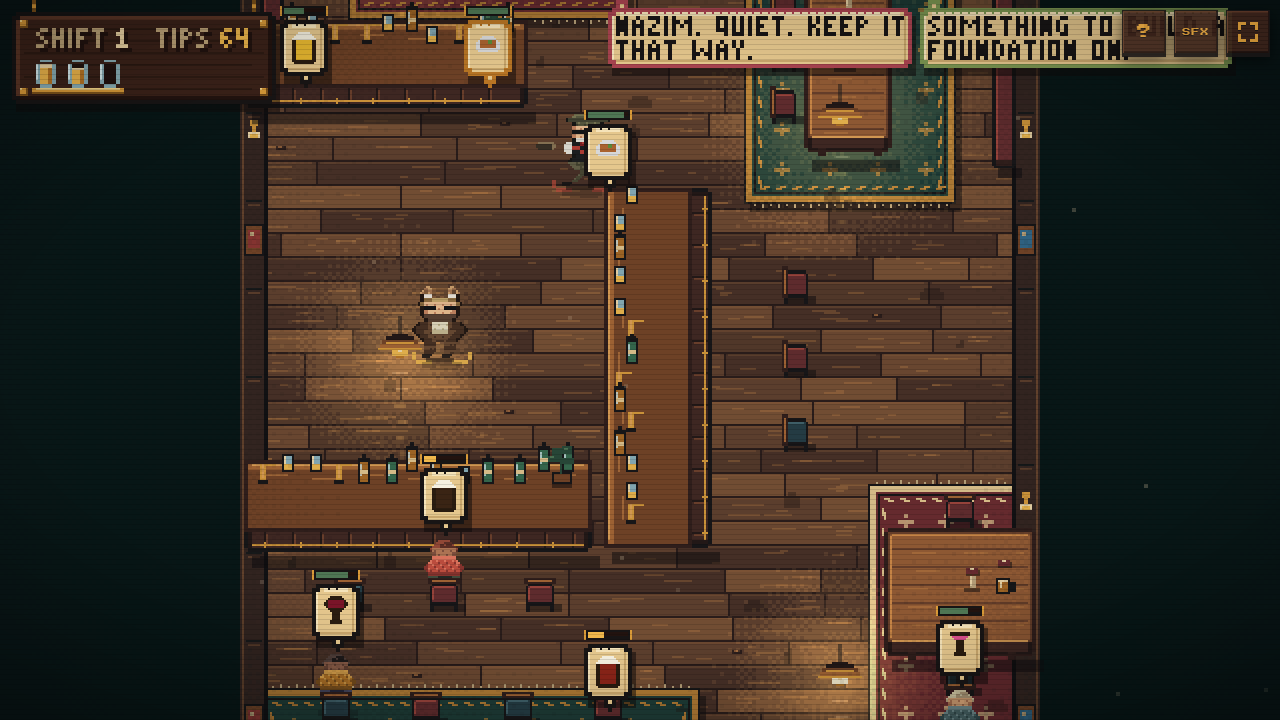
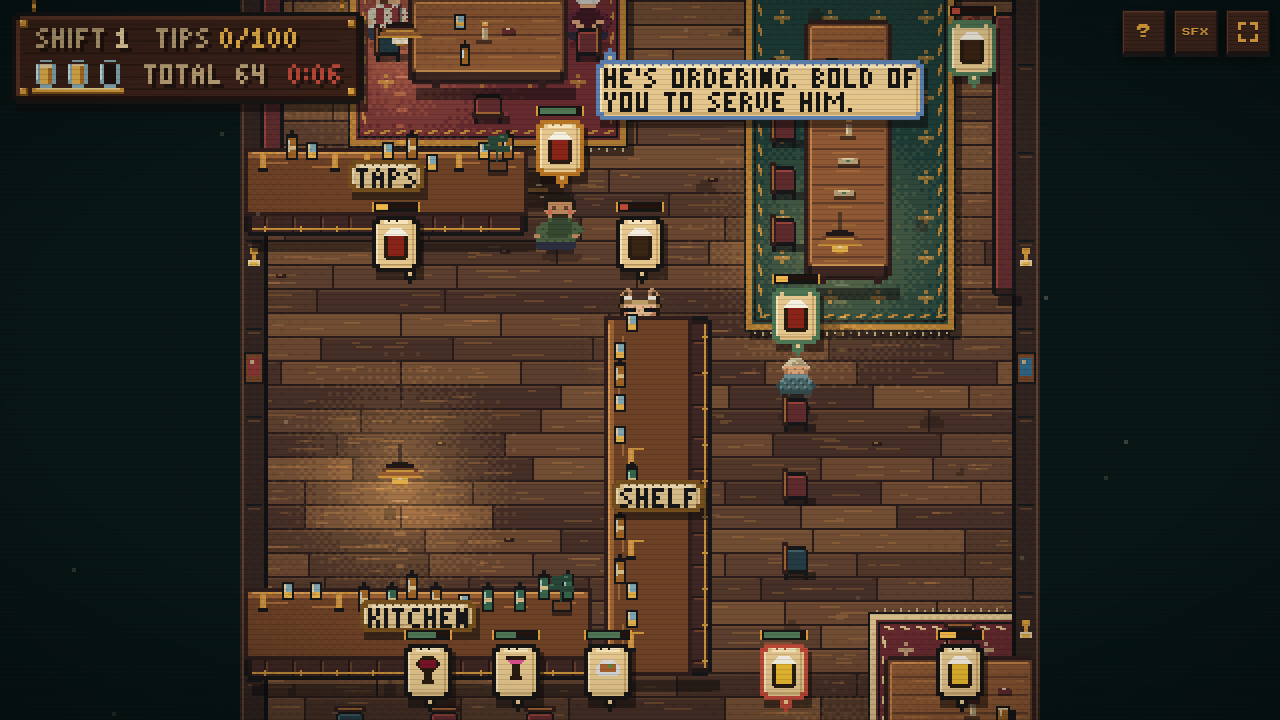
feat: hit-stop, danger edge and footsteps, the ghost spooks the hunter; docs
Juice for the chase: a few frames of hit-stop with the lost pint rocking
on the sign, a red edge pulse and footsteps when the hunter is close and
chasing, and the ghost stopping him dead once per apparition. CLAUDE.md,
README and the start hint describe the new loop.

diff --git a/game.js b/game.js
@@ -710,6 +710,13 @@ function deliveryTip(target) {
 // `caught` still means "game over" — it only flips true once life hits 0.
 let life = 1;
 const LIFE_MAX = 1;
+// A hit lands with a beat: the whole floor holds for a few frames and the
+// pint that just went shakes on the sign.
+const HIT_STOP = 0.08;
+const PINT_KNOCK_TIME = 0.5;
+let hitStopTimer = 0;
+let pintKnockTimer = 0;
+let pintKnockIndex = -1;
 const LIFE_HIT_FRACTION = 1 / 3;
 const LIFE_HIT_INVULN = 1.5;
 const LIFE_REGEN_DELAY = 3;
@@ -991,6 +998,17 @@ function updateGhost(dt) {
     const dir = ghost.targetX > ghost.x ? 1 : -1;
     ghost.x += dir * ghost.speed * dt;
     ghost.flip = dir < 0;
+    // Drifting through the hunter gives him a turn: he stops dead for a
+    // second, which is the one thing the ghost does to the chase. Once per
+    // apparition, so it can't be farmed by standing him in its path.
+    if (!ghost.spooked && (hunterState === 'chase' || hunterState === 'scanning') &&
+      Math.hypot(ghost.x - hunter.x, ghost.y - hunter.y) < 14) {
+      ghost.spooked = true;
+      setHunterState('lost', 1.2);
+      showHunterAlert('?!', 1.2);
+      Sound.play('lost');
+      Dialogue.trigger('hunterSpooked', null);
+    }
     if ((dir > 0 && ghost.x >= ghost.targetX) || (dir < 0 && ghost.x <= ghost.targetX)) ghost = null;
   }
 }
@@ -1762,6 +1780,9 @@ function resetGame() {
   life = LIFE_MAX;
   hitInvulnTimer = 0;
   regenDelayTimer = 0;
+  hitStopTimer = 0;
+  pintKnockTimer = 0;
+  pintKnockIndex = -1;
   shift = 1;
   shiftClock = 0;
   shiftTips = 0;
@@ -2305,6 +2326,7 @@ let hunterFacing = { x: 1, y: 0 };
 let hunterAlert = null;          // { text, timer } placard over his head
 let hunterOrderTimer = 0;        // until his next pint craving
 let hunterScanLookTimer = 0;     // scanning: pause-and-look cadence
+let hunterStepTimer = 0;         // chase: footstep cue cadence
 const HUNTER_ARRIVAL_FIRST = 20; // seconds before he walks in on a first run
 const HUNTER_ARRIVAL_RETRY = 8;  // ...and on a restart
 const HUNTER_LOST_TIME = 3;
@@ -2520,6 +2542,13 @@ function updateHunter(dt) {
         Dialogue.trigger('hunterLost', null);
         return;
       }
+      // Footsteps you can hear when he's close, quicker the closer he is.
+      hunterStepTimer -= dt;
+      const stepDist = Math.hypot(player.x - hunter.x, player.y - hunter.y);
+      if (hunterStepTimer <= 0 && stepDist < DANGER_RANGE * 1.3 && hunter.moving) {
+        Sound.play('step');
+        hunterStepTimer = 0.28 + 0.3 * (stepDist / (DANGER_RANGE * 1.3));
+      }
       hunterRepathTimer -= dt;
       if (hunterRepathTimer <= 0 || !hunterPath) {
         hunterRepathTimer = hunterRepathInterval();
@@ -2615,6 +2644,9 @@ function update(dt) {
 
   // The tally board freezes the floor until the player starts the next shift.
   if (shiftTally) return;
+  // Hit-stop: a few frames of nothing so a hit reads as an impact.
+  if (hitStopTimer > 0) { hitStopTimer -= dt; return; }
+  if (pintKnockTimer > 0) pintKnockTimer -= dt;
 
   // Player movement (slides along furniture/walls via per-axis collision).
   const input = getInputVector();
@@ -2721,6 +2753,9 @@ function update(dt) {
     regenDelayTimer = LIFE_REGEN_DELAY;
     doubleHitFree = false;
     shiftStats.hits++;
+    hitStopTimer = HIT_STOP;
+    pintKnockTimer = PINT_KNOCK_TIME;
+    pintKnockIndex = Math.min(LIFE_SEGMENT_COUNT - 1, Math.floor(life * LIFE_SEGMENT_COUNT + 1e-6));
 
     if (life <= 1e-9) {
       caught = true;
@@ -3770,6 +3805,34 @@ function drawGrade() {
 
   ensureVignette();
   ctx.drawImage(vignetteCanvas, 0, 0);
+  drawDangerEdge();
+}
+
+// A red pulse creeping in from the edge the hunter is on while he's close
+// and chasing — strongest when he's off camera, which is when you need it.
+const DANGER_RANGE = 80;
+function drawDangerEdge() {
+  if (hunterState !== 'chase' || caught) return;
+  const dx = hunter.x - player.x;
+  const dy = hunter.y - player.y;
+  const dist = Math.hypot(dx, dy);
+  if (dist > DANGER_RANGE) return;
+  const cam = getCamera();
+  const onScreen = hunter.x - cam.x > -8 && hunter.x - cam.x < viewW + 8 && hunter.y - cam.y > -8 && hunter.y - cam.y < viewH + 8;
+  const pulse = 0.65 + 0.35 * Math.sin(gameTime * 9);
+  const strength = (1 - dist / DANGER_RANGE) * (onScreen ? 0.22 : 0.42) * pulse;
+  if (strength <= 0.01) return;
+  // Three stepped bands rather than a gradient, weighted toward his side.
+  const wx = Math.abs(dx) > Math.abs(dy) ? Math.sign(dx) : 0;
+  const wy = wx === 0 ? Math.sign(dy) : 0;
+  for (let band = 0; band < 3; band++) {
+    ctx.fillStyle = 'rgba(189,73,56,' + (strength * (1 - band * 0.3)).toFixed(3) + ')';
+    const t = 2 + band * 2;
+    if (wx <= 0) ctx.fillRect(0, 0, t, viewH);                 // left
+    if (wx >= 0) ctx.fillRect(viewW - t, 0, t, viewH);         // right
+    if (wy <= 0) ctx.fillRect(0, 0, viewW, t);                 // top
+    if (wy >= 0) ctx.fillRect(0, viewH - t, viewW, t);         // bottom
+  }
 }
 
 // ---- Y-sorted pass ----------------------------------------------------------
@@ -4369,7 +4432,15 @@ function drawHud() {
 
   const pintY = textY + FONT_H + 3;
   for (let i = 0; i < LIFE_SEGMENT_COUNT; i++) {
-    const x = hud.x + HUD_PAD_X + i * (PINT_W + PINT_GAP);
+    let x = hud.x + HUD_PAD_X + i * (PINT_W + PINT_GAP);
+    // The pint that just went rocks on the rail and throws a splash.
+    const knocked = pintKnockTimer > 0 && i === pintKnockIndex;
+    if (knocked) {
+      x += Math.round(Math.sin(pintKnockTimer * 40)) ;
+      ctx.fillStyle = PUB.amber;
+      ctx.fillRect(x + PINT_W + 1, pintY + PINT_H - 2 - Math.round(pintKnockTimer * 6), 1, 1);
+      ctx.fillRect(x - 2, pintY + PINT_H - 1 - Math.round(pintKnockTimer * 4), 1, 1);
+    }
     drawPint(x, pintY, clamp(life * LIFE_SEGMENT_COUNT - i, 0, 1));
   }
   // Brass coaster rail under the pints so they sit on something.

diff --git a/tests/smoke.js b/tests/smoke.js
@@ -384,6 +384,17 @@ function run() {
   if (debug.getScore() - beforeRound < 25 + 30) throw new Error('Round should pay the three tips plus the bonus.');
   debug.resetGame();
 
+  // The ghost drifting through the hunter stops him for a moment, once.
+  debug.resetGame();
+  debug.setHunterState('chase');
+  debug.hunter.x = 100; debug.hunter.y = 150; debug.player.x = 100; debug.player.y = 300;
+  debug.spawnGhost();
+  const apparition = debug.getGhost();
+  apparition.x = debug.hunter.x - 2; apparition.y = debug.hunter.y; apparition.targetX = debug.hunter.x + 40;
+  debug.update(0.05);
+  if (debug.getHunterState().state !== 'lost') throw new Error('The ghost passing through the hunter should spook him.');
+  debug.resetGame();
+
   // Shifts: the clock runs, last call arms in the final seconds and stops
   // new walk-ins, the tally board freezes the floor until a press, and the
   // next shift starts from zero with the target raised.
@@ -434,7 +445,7 @@ function run() {
   debug.render();
 
   console.log(`Smoke test passed: ${SCRIPT_FILES.length} scripts, ${freeSeats} customer routes, ` +
-    `${debug.regularState().length} regulars, waiter visit, and serving loop, hunter states, Nazim's night, the round, shifts, and render pass with HUD, tally and caught boards.`);
+    `${debug.regularState().length} regulars, waiter visit, and serving loop, hunter states, Nazim's night, the round, the ghost's spook, shifts, and render pass with HUD, tally and caught boards.`);
 }
 
 run();

diff --git a/src/dialogue-content.js b/src/dialogue-content.js
@@ -187,6 +187,9 @@ const DIALOGUE_LINES = [
   { who: 'sam', category: 'lastCall', text: "Bell's gone. Everybody wants everything now." },
   { who: 'nazim', category: 'lastCall', stage: ['sober', 'warm', 'buzzed'], text: "Already? The night was just getting good." },
   { who: 'nazim', category: 'lastCall', stage: ['drunk', 'gone'], text: "Last call is a state of mind." },
+  { who: 'sam', category: 'hunterSpooked', text: "Did he just flinch at nothing?" },
+  { who: 'gerald', category: 'hunterSpooked', text: "Big man. Scared of a draught." },
+  { who: 'nazim', category: 'hunterSpooked', stage: ['drunk', 'gone'], text: "I saw it too. The see-through fella." },
 ];
 
 // ---- Multi-character exchanges ---------------------------------------------

diff --git a/index.html b/index.html
@@ -38,7 +38,7 @@
           <li><span>Restart</span><kbd>Space</kbd><em class="touch-only">on-screen button</em></li>
         </ul>
         <button id="btn-start" type="button" class="primary">START SHIFT</button>
-        <p class="hint">Nazim, Sam and Gerald are always at the corner table.</p>
+        <p class="hint">Beers at the TAPS, wine at the SHELF, food from the KITCHEN. The tray holds two.<br>Nazim, Sam and Gerald are always at the corner table.</p>
         </div>
       </div>
     </div>

diff --git a/src/sound.js b/src/sound.js
@@ -108,6 +108,11 @@ const Sound = (function () {
         if (!allow(name, 0.12)) return;
         tone(115, 0.045, { type: 'square', volume: 0.035 });
         break;
+      case 'step':
+        // A boot on the boards, felt more than heard.
+        if (!allow(name, 0.2)) return;
+        tone(95, 0.06, { to: 60, type: 'triangle', volume: 0.07 });
+        break;
       case 'bell':
         // Last call: the bar bell, twice.
         tone(1760, 0.18, { type: 'triangle', volume: 0.09 });

diff --git a/src/dialogue.js b/src/dialogue.js
@@ -23,6 +23,7 @@ const Dialogue = (function () {
     restart: 3,
     hunterNear: 2,
     lastCall: 3,
+    hunterSpooked: 2,
     waterOrdered: 3,
     sobered: 3,
     roundCalled: 3,

diff --git a/CLAUDE.md b/CLAUDE.md
@@ -150,13 +150,21 @@ Their orders are framed in amber (`BUBBLE_FRAME_REGULAR`) so they read apart fro
 
 Gerald's escalation is content-side: his lines about Nazim declare a `nazim: [...]` stage gate, so he can't use drunk material on a sober man.
 
-### 7. Carrying and delivery
+**His night costs and pays.** Drunk or gone (`nazimIsFarGone`): order cooldown ×`NAZIM_FAST_ORDER` 0.6 and alcohol tips ×`NAZIM_TIP_MULT` 2. Gone: each delivery has a `NAZIM_SPILL_CHANCE` of knocking the pint (`addSpill` — `spills` slow player and hunter to `SPILL_SLOW` 60% within 9px for 25 s, drawn by `drawSpills` under the y-sorted pass), and every 12–20 s he gets up (`startNazimWander`/`updateNazimWander`: lean pose plus his sway, 14 px/s to a spot near the booth, a pause, then home). While up he is in `dynamicBlockers`, which `collidesAt` checks after `FURNITURE` so everyone slides round him; routes ignore him. Entering gone sets `waterOwed`, so his next order is `'water'` (an `ORDER_ICONS` entry made at the taps and excluded from walk-in `ORDER_TYPES`); delivering it takes `NAZIM_WATER_SOBERS` 2 drinks off with the `sobered` exchange instead of a thank-you. Keep pouring for double tips, or cut him off — that's the choice.
 
-`player.carrying` holds `{ type, customer }` referencing a *specific* person — walk-in or regular — flagged `beingCarried` so two orders are never picked up for one person. `handleInteract()` (bound to `E`, `Space`, and the touch action button) either grabs an order at the bar or delivers the carried one.
+**The round.** Every `ROUND_INTERVAL` 90–150 s, when none of the three is mid-order, `tryCallRound()` gives all three an order with `ROUND_PATIENCE` 32 s; all three served inside `ROUND_WINDOW` 20 s pays `ROUND_BONUS` 25 (`noteRoundDelivery`), otherwise `roundMissed`.
 
-`findOldestPendingOrder()` picks by `orderPlacedAt` across **both** populations, so the queue stays fair now that two feed it.
+### 7. Stations, the tray, tips and delivery
 
-Delivery works next to the customer *or* anywhere near their table's collider (`nearRect`). If the target stops wanting the order, `update()` retargets it — **but only among walk-ins**. Silently re-pointing a drink at a different named regular would make ownership ambiguous, so a regular's order always has to be picked up for them on purpose. If no walk-in wants the stranded item, it is dropped so the player cannot get stuck carrying an undeliverable order. The validity check includes `orderType`, because a regular's order can lapse while they stay in their seat, whereas for a walk-in leaving is the only way out.
+**Orders are picked up at the station that makes them.** `BAR_STATIONS` maps each `BAR_SEGMENTS` entry's `station` (`taps` → beers and water, `shelf` → wine/cocktail, `hatch` → food) to its order types, and `findOldestPendingOrder(types)` filters the queue by them. `nearestBarSegment()` resolves the L's corner by distance, not array order. A press at the wrong counter floats the right station's label (`SHELF >`) instead of just buzzing. `drawStationTag` paints a parchment label on each counter. Remapping a station is a one-word edit.
+
+**The tray.** `player.tray` holds up to `TRAY_MAX` (2) `{ type, customer }` items, each referencing a *specific* person — walk-in, regular or the hunter — flagged `beingCarried` so two orders are never picked up for one person. A full tray drops speed to `TRAY_SPEED` (54, under the hunter's late-game 60); landing both without a hit pays `DOUBLE_BONUS` (`doubleArmed`/`doubleHitFree`, cancelled by a hit or a dropped order). `handleInteract()` (`E`, `Space`, the touch action) tries a delivery first — whichever tray item's customer is in reach (`canDeliverTo`) — then a pickup.
+
+**Tips** (`deliveryTip`): `POINTS_PER_DELIVERY` 10 plus another 10 scaled by remaining patience, plus `CLUTCH_BONUS` 5 under `CLUTCH_FRACTION` 20%. The patience bar is a score meter, not just a fail timer. Every tip earned or lost goes through `earnTips`/`loseTips` so the shift ledger (`shiftStats`) stays exact.
+
+`findOldestPendingOrder()` picks by `orderPlacedAt` across walk-ins, regulars **and the hunter**, so the queue stays fair.
+
+Delivery works next to the customer *or* anywhere near their table's collider (`nearRect`); the hunter is served at arm's length (`HUNTER_SERVE_RANGE` 26, wider than the ~15px catch radius). If a target stops wanting its order (`stillWantsOrder`), `update()` retargets it — **but only among walk-ins**. Silently re-pointing a drink at a different named regular would make ownership ambiguous, so a regular's order always has to be picked up for them on purpose. If no walk-in wants the stranded item, it is dropped from the tray so the player cannot get stuck carrying an undeliverable order. The validity check includes `orderType`, because a regular's order can lapse while they stay in their seat, whereas for a walk-in leaving is the only way out.
 
 ### 8. Dialogue
 
@@ -168,23 +176,31 @@ A reactive layer on top of gameplay. It never pauses the chase, blocks input, or
 - **`Dialogue.reset()` is called from `resetGame()`**, so a restart cancels everything queued or on screen; `resetDialogueTriggers()` clears the edge-detection state alongside it.
 - **Rendering** is `drawDialogueBubbles()`. Placement tries, in order: clear above the speaker's order bubble; straight above their head; pinned to the top of the camera; and only then hanging off the shoulder facing away from the booth. Bubbles are nudged sideways before vertically when two are on screen, and the HUD's footprint is fed in as an obstacle so a line can never sit on the score.
 
-### 9. Hunter AI: pursuit, not wandering
+### 9. Hunter AI: a rhythm, then pursuit
 
-`pickNewHunterDirection()` re-aims at the player's *current* position on a short timer with random angle jitter and a small chance to pause. Level tightens all three: jitter 60°→15°, shorter re-aim timer, smaller pause chance. If `tryMove` reports **both** axes blocked the hunter is wedged in a corner and `pickEscapeDirection()` fires a fully random burst.
+`updateHunter()` is a state machine (`hunterState`): **arriving** (hidden at `DOOR` for `HUNTER_ARRIVAL_FIRST` 20 s on a first run, `HUNTER_ARRIVAL_RETRY` 8 s on a restart, so a new player learns the bar before the chase; not drawn, can't catch) → **scanning** (half-speed prowl between random clear spots with a pause-and-look; he notices the Doe only inside a ±60° cone in front of him with a clear line through the furniture, within `hunterSightRange()` 70 + 4/level px — or within `HUNTER_HEAR_RANGE` 24 regardless; walking into him counts) → **chase** ("!" placard via `showHunterAlert`, `whistle` cue) → **lost** ("?" for `HUNTER_LOST_TIME` 3 s after `hunterLoseTime()` 4 + 0.5/level s out of sight) → scanning. **drinking** is 8 s sat out after being bought a pint. The ghost drifting through him forces a 1.2 s `lost` once per apparition. `setHunterState()` clears the route and slide state.
+
+**He is a patron too.** `hunter.isHunter` and the shared order fields; `hunterWantsPint()` every `HUNTER_ORDER_INTERVAL` 45–75 s with 25 s patience and no penalty; his ticket is framed `BUBBLE_FRAME_HUNTER` (tomato); `hunterServed()` pays the tip plus `HUNTER_SERVE_BONUS` 20 and seats him. Buying the man who's hunting you a pint is the joke the premise was begging for.
+
+**In chase he is a pathfinder.** `hunterRouteTo()` runs the same A* as customers with `HUNTER_FOOTPRINT` — the search is body-size aware (`footprintFor(kind, cell)`; `findBlockingObstacle`/`pointBlocked`/`cellCenter`/`computeCustomerPath` take an optional `fp`) and the hunter uses a **4px grid**, because on the 8px one his 11.6px foot box finds no clear centre in the 15px lane beside the bar stem though he physically fits. The route is recomputed every `hunterRepathInterval()` 1.5 → 0.8 s. `pickNewHunterDirection()` then aims at the next waypoint with half the old angle jitter and a small chance to pause, so he still reads as a man running rather than a homing missile. Level tightens all three: jitter 60°→15°, shorter re-aim timer, smaller pause chance. If `tryMove` reports **both** axes blocked the hunter is wedged in a corner and `pickEscapeDirection()` fires a fully random burst.
 
 Only one axis blocked means it is scraping along something. Re-aiming sooner is the first response, but pursuit alone cannot get round a *long* obstacle: every re-aim re-rolls the sideways component, so the hunter random-walks up and down the same wall forever and the player is safe just by standing on the other side of the bar. So after `HUNTER_RUB_TIME` of getting nowhere it commits to one direction along the open axis (`hunterSlide`) and holds it for `HUNTER_SLIDE_TIME` before trying the other way — plain wall following. The slide vector still leans into the wall, so the frame the obstacle runs out nothing is blocked, the slide clears itself, and pursuit resumes. `hunterRubTimer` and `hunterSlide` both reset in `resetGame()`.
 
-The hunter is still not a pathfinder, and the floor plan's bar leaves a couple of long detours it can only find by luck. A player who stands perfectly still behind the bar can outlast it.
+The rub/slide layer stays as the safety net for the cases the grid can't express; a route that fails outright falls back to a straight line and lets the slide sort it out. A red edge pulse (`drawDangerEdge`) and footstep cues (`step`) mark him within `DANGER_RANGE` 80 while chasing, strongest when he's off camera.
 
 ### 10. Life and capture
 
-Contact with the hunter removes one of three life segments instead of ending the run immediately. A 1.5-second invulnerability window and a collision-aware shove give the player room to escape; the sprite flickers while protected. Regeneration begins after three hit-free seconds and takes 20 seconds to refill an empty bar. Only the final hit sets `caught`, plays the caught cue and triggers the room's caught dialogue.
+Contact with the hunter removes one of three life segments instead of ending the run immediately. A 1.5-second invulnerability window and a collision-aware shove give the player room to escape; the sprite flickers while protected. Regeneration begins after three hit-free seconds and takes 20 seconds to refill an empty bar. A hit also holds the floor for `HIT_STOP` 0.08 s and rocks the emptied pint on the HUD sign (`pintKnockTimer`/`pintKnockIndex`). Only the final hit sets `caught`, plays the caught cue and triggers the room's caught dialogue.
 
 **High scores** live in `localStorage` under `lepub_highscores` (top 5, `{name, score}`; plain numbers from older saves are normalized on read, and every access is wrapped because storage can throw outright). Being caught with a score calls `beginNameEntry()`: while `enteringName` is true the caught screen shows a name field instead of the restart prompt, and the keydown handler takes the keyboard outright so no other shortcut can eat a letter or drop the score. The DOM restart button is hidden for the same reason (`syncCaughtDom`). Typing a name needs a keyboard, so on a touch device (`canTypeName()`) the score is filed unnamed rather than showing a field nobody can fill.
 
-### 11. Levels and difficulty
+### 11. Shifts and difficulty
 
-Level is *derived* from score (`getLevel() = floor(score / LEVEL_UP_SCORE) + 1`, `LEVEL_UP_SCORE` 100). Scaling clamps at `EFFECTIVE_LEVEL_CAP` (10) so the game plateaus, while the displayed level keeps climbing. Per level: hunter speed `min(60, 40 + lvl * 2.5)` — capped just under the player's 62 so a straight-line escape always exists — sharper aim, a higher customer cap (`BASE_MAX_CUSTOMERS` 6 rising to 14), faster spawns, and a heavier night tint. Crossing a new high-water level freezes the simulation for a 2.5-second `LevelDone.png` splash; losing points and re-crossing the same threshold does not replay it.
+The run is a sequence of **shifts**, and `getLevel()` returns the shift number — difficulty follows the shift, not the score, so losing tips never makes the room easier. A shift ends when `shiftTips` reaches `shiftTarget(n)` = 100 + 40(n−1), or, for the first `SHIFT_TIMED_COUNT` (5) shifts, when its `SHIFT_LENGTH` 180 s clock runs out. The final `LAST_CALL_TIME` 15 s are **last call**: bar bell, `lastCall` lines, no new walk-ins, patience drains ×`LAST_CALL_PATIENCE` (1.5), the HUD clock turns red and blinks under 5 s. Shifts ≥ 6 are untimed.
+
+`endShift()` snapshots `shiftTally` and freezes the floor; `drawShiftTallyOverlay` shows it on a walnut board over `LevelDone.png` (DONE in cream if the target was met, OVER in red if the clock beat you; served / forgotten / clutch / doubles / rounds / hits / best shift) and waits for Space, `E` or the touch action (`startNextShift()`). That press is the run's natural stopping point. The HUD sign reads `TIPS shift/target` on its top line and `TOTAL n  m:ss` beside the pints.
+
+Scaling clamps at `EFFECTIVE_LEVEL_CAP` (10) so the game plateaus, while the shift number keeps climbing. Per shift: hunter speed `min(60, 40 + lvl * 2.5)` — capped just under the player's 62 so a straight-line escape always exists — wider sight, faster repath, longer memory, a higher customer cap (`BASE_MAX_CUSTOMERS` 6 rising to 14), faster spawns, and a heavier night tint.
 
 ### 12. Render passes
 
@@ -225,7 +241,7 @@ The shell uses the same materials as the canvas UI: `.board` is a walnut plank (
 
 Still the single source of truth for "new game" state. It resets `gameTime`, the player position, a collision-free hunter spawn, `caught`, life/invulnerability/regeneration, score/level-splash state, `customers`, `floatingTexts`, `player.carrying`, every seat's `occupied` flag and the spawn timer — and also builds or resets the regulars, calls `Dialogue.reset()`, calls `resetDialogueTriggers()`, fires the `restart` dialogue category (only if a run has already ended), clears held inputs, and syncs the caught-screen DOM.
 
-It also clears `enteringName`/`nameInput`, the ghost and the waiter. **Any new piece of mutable global run state needs to be reset here too**, or it will leak across a restart. Reserved seats are the deliberate exception: `reserved`/`regularId` are set once at load and never cleared.
+It also clears `enteringName`/`nameInput`, the ghost, the waiter, the tray and double state, the hunter's state machine and order (he restarts `arriving` at the door), spills, dynamic blockers, the round, the shift (number, clock, tips, tally, stats) and the hit-stop/pint-knock timers. **Any new piece of mutable global run state needs to be reset here too**, or it will leak across a restart. Reserved seats are the deliberate exception: `reserved`/`regularId` are set once at load and never cleared.
 
 ## Development scaffolding
 
@@ -233,8 +249,8 @@ It also clears `enteringName`/`nameInput`, the ghost and the waiter. **Any new p
 
 | Helper | Use |
 | --- | --- |
-| `setScore(n)` / `getScore()` / `getLevel()` | Level is derived from score, so `setScore` is how you reach a level. |
-| `setLife(n)` / `getLife()` / `getLevelSplash()` | Inspect the damage/regen bar and current completed-level transition. |
+| `setScore(n)` / `getScore()` / `getLevel()` | Total tips; `getLevel()` is the shift number (use `setShift` to change it). |
+| `setLife(n)` / `getLife()` | Inspect the damage/regen bar. |
 | `getViewport()` / `getCamera()` | Current internal resolution, integer scale, orientation, camera origin. |
 | `reservedSeats()` / `freeGenericSeats()` | Inspect seat reservation. |
 | `forceRegularOrder(id, type?)` | Make a regular order now, optionally of a given type. |
@@ -242,6 +258,9 @@ It also clears `enteringName`/`nameInput`, the ghost and the waiter. **Any new p
 | `computeCustomerPath` / `findBlockingObstacle` / `pointBlocked` | Check a layout edit hasn't sealed a seat off. |
 | `FURNITURE` / `BENCHES` | Every collider in one array — what a flood-fill reachability check runs over. |
 | `getGhost()` / `spawnGhost()` | Summon the apparition instead of waiting 35–80s for it. |
+| `getHunterState()` / `setHunterState(s, t?)` / `hunterCanSeePlayer()` / `hunterWantsPint()` | Drive the hunter's state machine, test his sight, make him order. |
+| `getShift()` / `setShift(n)` / `setShiftClock(t)` / `endShift()` / `startNextShift()` | Jump shifts, force last call, open and close the tally board. |
+| `getSpills()` / `getRound()` / `callRound()` / `startNazimWander()` | Nazim's consequences and the round, on demand. |
 | `getWaiter()` / `spawnWaiter()` | Send the waiter in now; the returned entity's `state`/`pose`/`mist` can be driven by hand. |
 | `loadHighScores()` / `saveHighScore()` / `clearHighScores()` / `getNameEntry()` | Inspect and wipe the stored table, and see the live name field. |
 | `regularState()` | Order, patience, mood, drinks, stage and pose for all three. |

diff --git a/README.md b/README.md
@@ -1,6 +1,6 @@
 # Le Pub: The Chase
 
-A compact pixel-art serving game where a waiter in a deer onesie works a crowded pub while a hunter stalks the room. Pick up the oldest waiting order at the bar, deliver it before the customer loses patience, and keep moving long enough to finish the next level.
+A compact pixel-art serving game where a waiter in a deer onesie works a crowded pub while a hunter stalks the room. Pick orders up at the right station, deliver them before the customer loses patience, and keep moving long enough to close the shift.
 
 **Live demo:** [lepub.vercel.app](https://lepub.vercel.app)
 
@@ -44,12 +44,12 @@ Opening `index.html` directly also works in modern browsers, although serving th
 
 ## How to play
 
-1. Watch for order bubbles above seated customers and the three corner-table regulars.
-2. Move beside any section of the L-shaped bar and grab the oldest waiting order.
-3. Carry it to the highlighted customer. You can deliver beside the customer or anywhere close to their table.
-4. Deliver quickly for 10 points. Letting an order expire costs 15 points.
-5. Avoid the hunter. Contact removes one of three life segments and briefly shoves you to safety.
-6. Survive and keep serving. Every 100 points completes a level and makes the pub busier and the hunter more accurate.
+1. Watch for order tickets above seated customers, the three corner-table regulars — and, now and then, the hunter.
+2. Pick orders up at the station that makes them: beers and water at the **TAPS**, wine and cocktails at the **SHELF**, food from the **KITCHEN**. The tray holds two, but a full tray slows you down; land both without a hit for a double.
+3. Carry them to their customers. You can deliver beside the customer or anywhere close to their table.
+4. Tips scale with how fresh the order still is: 10 to 20, plus a clutch bonus for a last-second save. Letting an order expire costs 15.
+5. Avoid the hunter. He walks in a little after you start, prowls, and only chases once he's actually seen you. Contact removes one of three pints and briefly shoves you to safety. Buy him a pint and he sits it out for a while.
+6. Work the shift. The first five run three minutes with a last-call rush; every shift closes on a tally board, and each one makes the pub busier and the hunter sharper. Keep Nazim drinking for double tips — or let Gerald order him a water.
 
 Life begins regenerating after three hit-free seconds. A fully empty bar takes 20 seconds to refill, and the third hit before recovery ends the shift.
 
@@ -84,7 +84,7 @@ Their dialogue reacts to successful and missed deliveries, near misses, the hunt
 - **Patience:** each order bubble includes a green, amber, or red countdown bar.
 - **Delivery feedback:** score changes float above the affected customer, while order bubbles pop in and shrink away on a whole-pixel animation.
 - **Life and recovery:** three partially refillable segments, a short post-hit invulnerability window, collision-aware knockback, and visible player flicker.
-- **Difficulty:** higher levels add customers, speed up arrivals, improve the hunter's tracking, and deepen the night tint.
+- **Difficulty:** each shift adds customers, speeds up arrivals, widens the hunter's sight and sharpens his tracking, and deepens the night tint.
 - **Responsive presentation:** separate portrait and landscape viewports, camera clamping, safe-area-aware controls, and optional fullscreen.
 - **Sound:** lightweight synthesized Web Audio cues with no audio downloads; the mute preference is stored locally when browser storage is available.
 - **Reduced motion:** ambient dust, lamp flicker, and seated sway are disabled when the operating system requests reduced motion.
@@ -133,7 +133,7 @@ The dependency-free smoke test loads the production scripts in their real
 order, runs every customer seat route in and out, completes a waiter visit,
 and exercises the render pass against a lightweight canvas/DOM stand-in.
 
-For browser testing, exercise both a wide desktop viewport and a portrait mobile viewport. Useful checks include resizing during a run, simultaneous movement and touch interaction, restarting after a catch, muting before and after the first sound, and crossing a 100-point level boundary.
+For browser testing, exercise both a wide desktop viewport and a portrait mobile viewport. Useful checks include resizing during a run, simultaneous movement and touch interaction, restarting after a catch, muting before and after the first sound, and closing a shift on both the clock and the tips target.
 
 ### Debug console
 

diff --git a/HANDOFF.md b/HANDOFF.md
@@ -30,6 +30,26 @@ contents here.
 - Python is not on this machine's PATH; use `node` for scripts and
   `npx serve`/Edge for browser checks.
 
+### 19:35 — batch E (juice) done; docs updated; all ten recommendations in
+
+- Hit-stop (`HIT_STOP` 0.08 s freeze) and the emptied HUD pint rocking with
+  a splash (`pintKnockTimer`/`pintKnockIndex`).
+- `drawDangerEdge()`: stepped red bands on the hunter's side while he
+  chases within `DANGER_RANGE` 80, pulsing, stronger off camera; `step`
+  footstep cue paced by distance (`hunterStepTimer`).
+- The ghost passing within 14 px of a scanning/chasing hunter forces a 1.2 s
+  `lost` with a "?!" placard, once per apparition (`ghost.spooked`);
+  `hunterSpooked` lines.
+- `CLAUDE.md` sections 6/7/9/10/11/15 and the debug table rewritten for
+  stations, tray, tips, hunter states, footprint-aware A*, Nazim's
+  consequences, the round, shifts. `README.md` how-to-play updated. Start
+  overlay hint names the stations and the tray.
+- Smoke: 8 scripts, loop, hunter, Nazim, round, spook, shifts, boards —
+  passes repeatedly. Edge captures clean. `assets/gameplay.png` refreshed.
+- Next: commit, push, redeploy preview, note on PR #3. Then wait for the
+  user's real bar plan (layout pass: re-trace `BAR_SEGMENTS`/`TABLES`/
+  `BENCHES`, remap `station` ids, re-run smoke for routes).
+
 ### 19:15 — batch D (shifts) done: timed shifts, last call, tally board
 
 - Level is no longer derived from score: `getLevel()` returns `shift`, so
